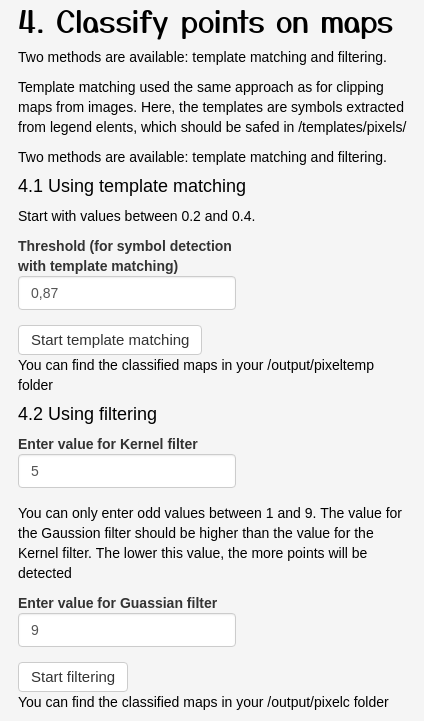
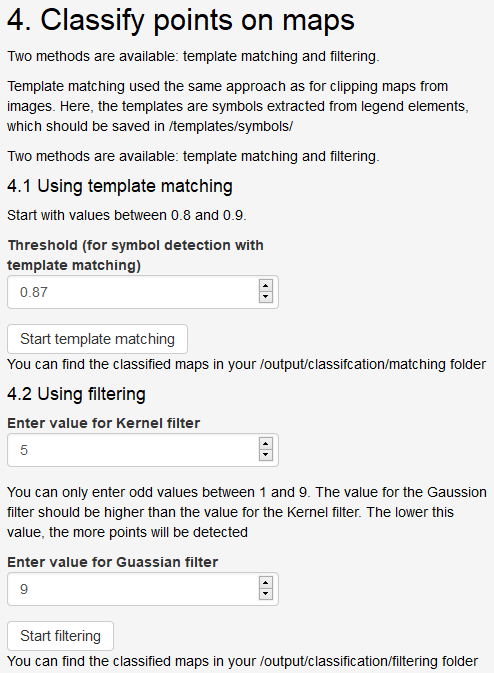
path changes

Changed region(s): [[0.0, 0.0, 0.9811, 0.9985], [0.5212, 0.8425, 0.5825, 0.9049]]

diff --git a/docs/_pages/tutorial.md b/docs/_pages/tutorial.md
@@ -8,9 +8,6 @@ sidebar:
 toc: true
 ---
 
-
-
-
 ## Set your working directory
 
 You first need to set your working directory in the Digitizer application.
@@ -19,13 +16,13 @@ You first need to set your working directory in the Digitizer application.
 
 Paste the path to your working directory in the field "Path". 
 
-Make sure that you
-* do NOT include in the path
-  * quotation marks
-  * empty spaces
+Make sure that you,
+* do NOT include in the path,
+  * quotation marks,
+  * empty spaces,
   * special characters,
 * use / and not \ to separate folders, and
-* that your path ends with /  
+* that your path ends with /.
 
 
 
@@ -33,13 +30,13 @@ Make sure that you
 ## Create templates
 ![Digitizer Interface]({{site.baseurl}}/assets/images/shiny/steps/2_templates.png)
 
-Choose images for selecting areas, which you can save as separate templeate files.
+Choose images for selecting areas, which you can save as separate template files.
 
-Save map templates in /templates/maps/ and legend symbol templates in /templates/pixels/
+Save map templates in /templates/maps/ and legend symbol templates in /templates/symbols/.
 
 The templates saved in /templates/maps will be matched to the content of the files in your input directory for extracting maps.
 
-The templates saved in /templates/pixels will be matched to the content of the files in your output directory with extracted maps (/output/pixeltemp/).
+The templates saved in /templates/symbols will be matched to the content of the files in your output directory with extracted maps (/output/classification/matching/).
 
 
 ## Detect maps
@@ -48,15 +45,15 @@ The templates saved in /templates/pixels will be matched to the content of the f
 
 ### Prerequisites
 
-* Clear the input, output, and templates/map directories (= delete the files in there)
-* Make sure that your input files are in data/input
-* Ensure that the output directory is empty (there might be files from previous Digitizer runs)
+* Clear the input, output, and templates/map directories (= delete the files in there).
+* Make sure that your input files are in data/input.
+* Ensure that the output directory is empty (there might be files from previous Digitizer runs).
 
 
 ### Execution
 
-* Check if the working directory is correct again
-* Press "Start map detection"
+* Check if the working directory is correct again.
+* Press "Start map detection".
 * Check the data/output folder for the results. Also try different threshold values. High threshold values will lead to few detections, low values to many detections.
 * The expected results in the output folder are (in this case) all cropped maps from the images in the input directory.
 * With the current version, you have to delete all duplicated or noisy images in the data/output folder manually. Will be automated in the future.
@@ -69,7 +66,7 @@ The templates saved in /templates/pixels will be matched to the content of the f
 Two methods are available: template matching and filtering.
 
 Template matching used the same approach as for clipping maps from images. 
-Here, the templates are symbols extracted from legend elements, which should be saved in /templates/pixels/
+Here, the templates are symbols extracted from legend elements, which should be saved in /templates/symbols/.
 
 Two methods are available: template matching and filtering. 
 Both use the files in data/output/ as input.
@@ -78,11 +75,11 @@ Both use the files in data/output/ as input.
 ### Template matching
 
 You first have to set a threshold value between 0 and 1 for template matching.
-Start with values around 0.3.
+Start with values around 0.75.
 
 High values will lead to few detections, high values to (too) many detections.
 
-You can find the classified output in your /output/pixeltemp/ folder
+You can find the classified output in your /output/classification/matching/ folder.
 
 
 ### Filtering
@@ -93,10 +90,10 @@ Instead, you have to specify parameters for the Kernel and Gaussian filters.
 Note:
 * You can only enter odd values between 1 and 9. 
 * The value for the Gaussian filter should be higher than the value for the Kernel filter. 
-* The lower the value for the Gaussian filter, the more points will be detected
+* The lower the value for the Gaussian filter, the more points will be detected.
 * As a rough guideline start with 5 for the Kernel filter and 9 for the Gaussian filter.
 
-You can find the classified output with the occurrence points marked in blue in your /output/pixelc/ folder.
+You can find the classified output with the occurrence points marked in blue in your /output/classification/filtering/ folder.
 These files will subsequently be used for geo-referencing.
 
 
@@ -109,9 +106,9 @@ See the "theoretical background" page for details.
 You need to have a file with GCP points in /templates/geopoints/ with the ending .points. 
 The expected format is the default export of GCPs from QGIS containing the columns mapX, mapY, pixelX, and pixelY.
 
-When you press the "Start georeferencing" button, those GCPs will be applied to the classified maps in your /output/pixelc/ folder.
+When you press the "Start georeferencing" button, those GCPs will be applied to the classified maps in your /output/classification/filtering/ folder.
 
-You can find the georeferenced output as GeoTif files in output/georeferencing/ 
+You can find the georeferenced output as GeoTif files in output/georeferencing/. 
 
 
 

diff --git a/docs/_pages/installation.md b/docs/_pages/installation.md
@@ -82,18 +82,27 @@ Now you should see the dialog box "DD User interface" if everything went fine:
 
 
 #### Files
-* app.R: the source code of the shiny application.
-* config.txt: still needed?
-* start_dd_app.R: Open and execute with RStudio for starting the app.
-* README.md: Additional information
+* **app.R** : the source code of the shiny application.
+
+* **config.txt** : This feature is not important for now. In the future, the user can give the values automatically to the software through this file.
+
+* **start_dd_app.R** : Open and execute with RStudio for starting the app.
+
+* **README.md** : Additional information.
 
 #### Folders
-* data
-  * input: Your scanned book pages go in here.
-  * output: output for all modules (map cropping, pixel classification, georeferencing).
-  * templates: Template files created with the Digitizer for map cropping and detecting legend elements on maps. Also Ground Control Points for georeferencing go in here.
-* src: The source code of the application.
-* www: Layout for the application. 
+
+* **data** :
+
+  * **input** : Your scanned book pages go in here
+  
+  * **output** : output for all modules (map cropping, pixel classification, georeferencing). The output of template matching can be found under /data/output, the output of legends template matching can be found under /data/output/classification/matching and the output of filtering can be found under /data/output/classifcation/filtering. The final georeferenced file is under /data/output/georeferencing.
+  
+  * **templates**: Template files created with the Digitizer for map cropping and detecting legend elements on maps. Also Ground Control Points for georeferencing go in here. This is important as the modules require template files and ground control points to run successfully. The templates for map detection should be stored under /data/templates/maps and the templates for legends template matching (pixel classification) should be stored under /data/templates/symbols. The ground control points should be stored under data/templates/geopoints.
+  
+* **src** : The source code of the application.
+
+* **www** : Layout for the application. 
 
 
 
